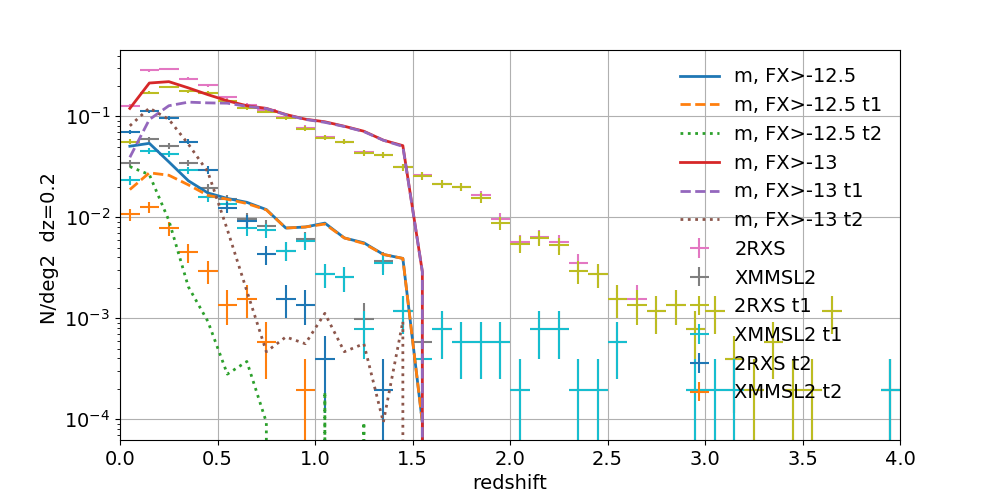
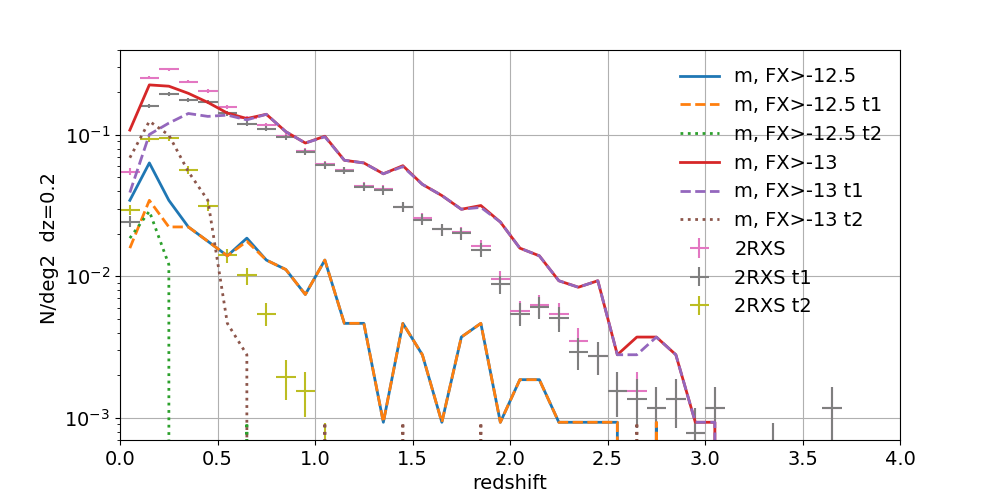
plotNZ

diff --git a/bin_SPIDERS_AGN/plot_NZ-VAC.py b/bin_SPIDERS_AGN/plot_NZ-VAC.py
@@ -176,8 +176,8 @@ p.legend(frameon=False, loc=0)
 p.savefig(os.path.join( figure_dir, env+"_histogram_redshift.png"))
 p.clf()
 
-
-np.savetxt(os.path.join( figure_dir, env+"_histogram_redshift.txt"), np.transpose([zs[:-1], zs[1:], NN_xmmxxl, NN_2rxs]), delimiter=" & ", newline=" \\\\ \n", fmt='%10.1f')
+np.savetxt(os.path.join( figure_dir, env+"_histogram_redshift.txt"), np.transpose([zs[:-1], zs[1:], NN_2rxs]), delimiter=" & ", newline=" \\\\ \n", fmt='%10.1f')
+#np.savetxt(os.path.join( figure_dir, env+"_histogram_redshift.txt"), np.transpose([zs[:-1], zs[1:], NN_xmmxxl, NN_2rxs]), delimiter=" & ", newline=" \\\\ \n", fmt='%10.1f')
 
 p.figure(0, (10,5))
 p.axes([0.12, 0.12, 0.78, 0.78])
